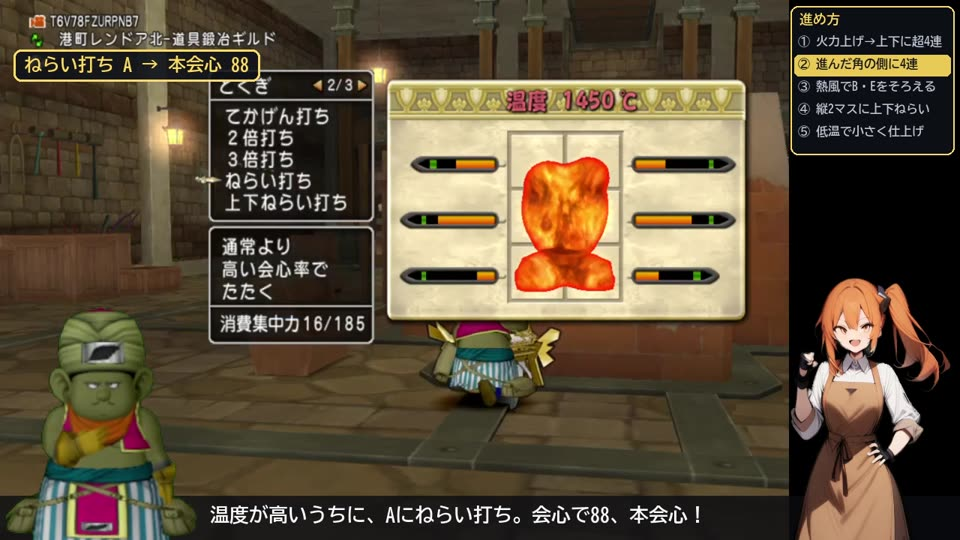
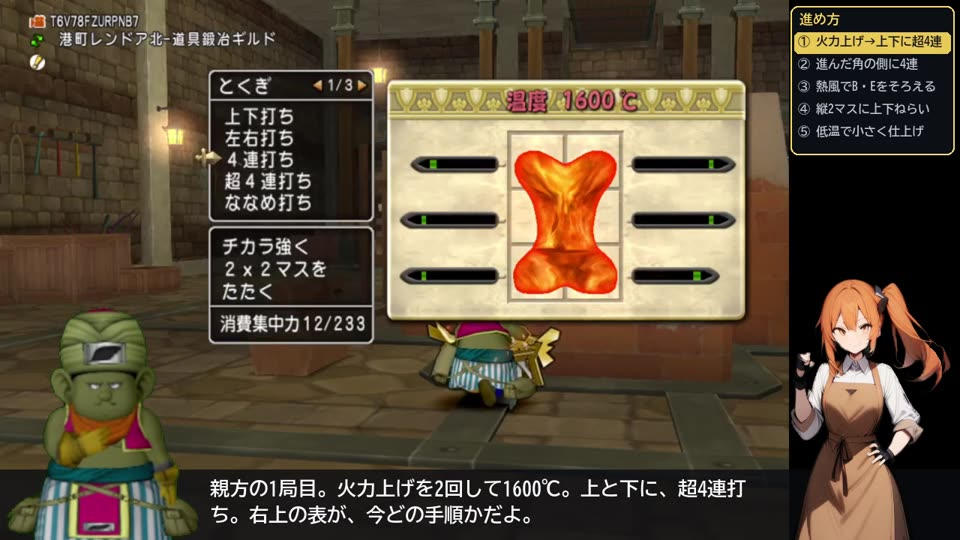
皮のてぶくろ・虹色のオーブは上げ直し版の説明欄（youtube2.md）から作る

diff --git a/item/kawa-tebukuro/index.html b/item/kawa-tebukuro/index.html
@@ -16,7 +16,7 @@
 <meta property="og:locale" content="ja_JP">
 <meta property="og:image" content="https://i.ytimg.com/vi/4nPwdXzhYQA/hqdefault.jpg">
 <meta name="twitter:card" content="summary_large_image">
-<script type="application/ld+json">[{"@context": "https://schema.org", "@type": "Article", "headline": "皮のてぶくろの縫い方とコツ｜ドラクエ10 裁縫", "description": "ドラクエ10 裁縫の「皮のてぶくろ」の縫い方とコツを、解説動画と実際の記録でまとめました。材料は店で100Gのけものの皮。針代を入れても1個5,000Gほどの皮のてぶくろ★3に、上級錬金を1回だけ回してレアドロップ率が付けば、約290万Gで売れます。", "inLanguage": "ja", "author": {"@type": "Person", "name": "らんぷー", "url": "https://www.youtube.com/@%E3%82%89%E3%82%93%E3%81%B7%E3%83%BCdqx", "sameAs": ["https://www.youtube.com/@%E3%82%89%E3%82%93%E3%81%B7%E3%83%BCdqx"]}, "image": ["https://i.ytimg.com/vi/4nPwdXzhYQA/hqdefault.jpg"], "datePublished": "2026-10-27T18:01:31Z", "mainEntityOfPage": "https://dq-tools.github.io/item/kawa-tebukuro/"}, {"@context": "https://schema.org", "@type": "VideoObject", "name": "ドラクエ10 裁縫×錬金 金策｜皮のてぶくろ 初手レアドロで290万！縫い方と錬金のコツ", "description": "ドラクエ10 裁縫（さいほう）と錬金の金策「皮のてぶくろ 初手レアドロ」を、縫い方のコツから錬金の選び方、パルプンテに入れるコツ、もうけの計算まで解説します。 材料は店で100Gのけものの皮。針代を入れても1個5,000Gほどの皮のてぶくろ★3に、上級錬金を1回だけ回してレアドロップ率が付けば、約290万Gで売れます。", "thumbnailUrl": ["https://i.ytimg.com/vi/4nPwdXzhYQA/hqdefault.jpg"], "uploadDate": "2026-10-27T18:01:31Z", "duration": "PT6M34S", "embedUrl": "https://www.youtube.com/embed/4nPwdXzhYQA", "contentUrl": "https://www.youtube.com/watch?v=4nPwdXzhYQA", "hasPart": [{"@type": "Clip", "name": "オープニング", "startOffset": 0, "endOffset": 15, "url": "https://www.youtube.com/watch?v=4nPwdXzhYQA&t=0s"}, {"@type": "Clip", "name": "皮のてぶくろ金策とは", "startOffset": 15, "endOffset": 27, "url": "https://www.youtube.com/watch?v=4nPwdXzhYQA&t=15s"}, {"@type": "Clip", "name": "皮のてぶくろの数値（6マス・すべて15・誤差3以下）", "startOffset": 27, "endOffset": 38, "url": "https://www.youtube.com/watch?v=4nPwdXzhYQA&t=27s"}, {"@type": "Clip", "name": "何も考えずにできる縫い方（実際に縫う場面つき）", "startOffset": 38, "endOffset": 99, "url": "https://www.youtube.com/watch?v=4nPwdXzhYQA&t=38s"}, {"@type": "Clip", "name": "針と原価（プラチナのさいほう針★3がおすすめ）", "startOffset": 99, "endOffset": 119, "url": "https://www.youtube.com/watch?v=4nPwdXzhYQA&t=99s"}, {"@type": "Clip", "name": "なぜ ねらいぬい？", "startOffset": 119, "endOffset": 136, "url": "https://www.youtube.com/watch?v=4nPwdXzhYQA&t=119s"}, {"@type": "Clip", "name": "★3 のまま売ると", "startOffset": 136, "endOffset": 154, "url": "https://www.youtube.com/watch?v=4nPwdXzhYQA&t=136s"}, {"@type": "Clip", "name": "1回だけ錬金して売る", "startOffset": 154, "endOffset": 169, "url": "https://www.youtube.com/watch?v=4nPwdXzhYQA&t=154s"}, {"@type": "Clip", "name": "どの錬金を使う？（眠り・呪文発動速度）", "startOffset": 169, "endOffset": 188, "url": "https://www.youtube.com/watch?v=4nPwdXzhYQA&t=169s"}, {"@type": "Clip", "name": "パルプンテに入れるコツ", "startOffset": 188, "endOffset": 248, "url": "https://www.youtube.com/watch?v=4nPwdXzhYQA&t=188s"}, {"@type": "Clip", "name": "実際に16回回してみた（レアドロ・通ドロが付いた場面つき）", "startOffset": 248, "endOffset": 277, "url": "https://www.youtube.com/watch?v=4nPwdXzhYQA&t=248s"}, {"@type": "Clip", "name": "★3は買ってもいい", "startOffset": 277, "endOffset": 290, "url": "https://www.youtube.com/watch?v=4nPwdXzhYQA&t=277s"}, {"@type": "Clip", "name": "1個あたりのもうけ", "startOffset": 290, "endOffset": 319, "url": "https://www.youtube.com/watch?v=4nPwdXzhYQA&t=290s"}, {"@type": "Clip", "name": "まとめ", "startOffset": 319, "url": "https://www.youtube.com/watch?v=4nPwdXzhYQA&t=319s"}]}, {"@context": "https://schema.org", "@type": "BreadcrumbList", "itemListElement": [{"@type": "ListItem", "position": 1, "name": "トップ", "item": "https://dq-tools.github.io/"}, {"@type": "ListItem", "position": 2, "name": "皮のてぶくろ", "item": "https://dq-tools.github.io/item/kawa-tebukuro/"}]}]</script>
+<script type="application/ld+json">[{"@context": "https://schema.org", "@type": "Article", "headline": "皮のてぶくろの縫い方とコツ｜ドラクエ10 裁縫", "description": "ドラクエ10 裁縫の「皮のてぶくろ」の縫い方とコツを、解説動画と実際の記録でまとめました。材料は店で100Gのけものの皮。針代を入れても1個5,000Gほどの皮のてぶくろ★3に、上級錬金を1回だけ回してレアドロップ率が付けば、約290万Gで売れます。", "inLanguage": "ja", "author": {"@type": "Person", "name": "らんぷー", "url": "https://www.youtube.com/@%E3%82%89%E3%82%93%E3%81%B7%E3%83%BCdqx", "sameAs": ["https://www.youtube.com/@%E3%82%89%E3%82%93%E3%81%B7%E3%83%BCdqx"]}, "image": ["https://i.ytimg.com/vi/4nPwdXzhYQA/hqdefault.jpg"], "datePublished": "2026-10-27T18:01:31Z", "mainEntityOfPage": "https://dq-tools.github.io/item/kawa-tebukuro/"}, {"@context": "https://schema.org", "@type": "VideoObject", "name": "ドラクエ10 裁縫×錬金 金策｜皮のてぶくろ 初手レアドロで290万！縫い方と錬金のコツ", "description": "ドラクエ10 裁縫（さいほう）と錬金の金策「皮のてぶくろ 初手レアドロ」を、縫い方のコツから錬金の選び方、パルプンテに入れるコツ、もうけの計算まで解説します。 材料は店で100Gのけものの皮。針代を入れても1個5,000Gほどの皮のてぶくろ★3に、上級錬金を1回だけ回してレアドロップ率が付けば、約290万Gで売れます。", "thumbnailUrl": ["https://i.ytimg.com/vi/4nPwdXzhYQA/hqdefault.jpg"], "uploadDate": "2026-10-27T18:01:31Z", "duration": "PT6M34S", "embedUrl": "https://www.youtube.com/embed/4nPwdXzhYQA", "contentUrl": "https://www.youtube.com/watch?v=4nPwdXzhYQA", "hasPart": [{"@type": "Clip", "name": "オープニング", "startOffset": 0, "endOffset": 14, "url": "https://www.youtube.com/watch?v=4nPwdXzhYQA&t=0s"}, {"@type": "Clip", "name": "実際に縫う（シフト → 会心×2 → 精神統一 → ねらいぬい）", "startOffset": 14, "endOffset": 44, "url": "https://www.youtube.com/watch?v=4nPwdXzhYQA&t=14s"}, {"@type": "Clip", "name": "皮のてぶくろの数値（6マス・すべて15・誤差3以下）", "startOffset": 44, "endOffset": 58, "url": "https://www.youtube.com/watch?v=4nPwdXzhYQA&t=44s"}, {"@type": "Clip", "name": "なぜ ねらいぬい？", "startOffset": 58, "endOffset": 85, "url": "https://www.youtube.com/watch?v=4nPwdXzhYQA&t=58s"}, {"@type": "Clip", "name": "会心×2が出なかった時", "startOffset": 85, "endOffset": 105, "url": "https://www.youtube.com/watch?v=4nPwdXzhYQA&t=85s"}, {"@type": "Clip", "name": "針と原価（プラチナのさいほう針★3がおすすめ）", "startOffset": 105, "endOffset": 130, "url": "https://www.youtube.com/watch?v=4nPwdXzhYQA&t=105s"}, {"@type": "Clip", "name": "★3 のまま売ると", "startOffset": 130, "endOffset": 154, "url": "https://www.youtube.com/watch?v=4nPwdXzhYQA&t=130s"}, {"@type": "Clip", "name": "1回だけ錬金して売る", "startOffset": 154, "endOffset": 174, "url": "https://www.youtube.com/watch?v=4nPwdXzhYQA&t=154s"}, {"@type": "Clip", "name": "どの錬金を使う？（眠り・呪文発動速度）", "startOffset": 174, "endOffset": 197, "url": "https://www.youtube.com/watch?v=4nPwdXzhYQA&t=174s"}, {"@type": "Clip", "name": "パルプンテに入れるコツ", "startOffset": 197, "endOffset": 222, "url": "https://www.youtube.com/watch?v=4nPwdXzhYQA&t=197s"}, {"@type": "Clip", "name": "通ドロ・レアドロが付いた場面", "startOffset": 222, "endOffset": 261, "url": "https://www.youtube.com/watch?v=4nPwdXzhYQA&t=222s"}, {"@type": "Clip", "name": "実際に16回回してみた", "startOffset": 261, "endOffset": 298, "url": "https://www.youtube.com/watch?v=4nPwdXzhYQA&t=261s"}, {"@type": "Clip", "name": "★3は買ってもいい", "startOffset": 298, "endOffset": 313, "url": "https://www.youtube.com/watch?v=4nPwdXzhYQA&t=298s"}, {"@type": "Clip", "name": "1個あたりのもうけ", "startOffset": 313, "endOffset": 357, "url": "https://www.youtube.com/watch?v=4nPwdXzhYQA&t=313s"}, {"@type": "Clip", "name": "まとめ", "startOffset": 357, "url": "https://www.youtube.com/watch?v=4nPwdXzhYQA&t=357s"}]}, {"@context": "https://schema.org", "@type": "BreadcrumbList", "itemListElement": [{"@type": "ListItem", "position": 1, "name": "トップ", "item": "https://dq-tools.github.io/"}, {"@type": "ListItem", "position": 2, "name": "皮のてぶくろ", "item": "https://dq-tools.github.io/item/kawa-tebukuro/"}]}]</script>
 <style>
 :root{--bg:#f4f1ea;--card:#fffdf8;--fg:#24212b;--sub:#6b6676;--line:#e3ddd0;--acc:#c2410c;--acc2:#f59e0b;--chip:#efe9dc;
   --hero1:#3b1d0e;--hero2:#7c2d12;--shadow:0 2px 10px rgba(60,40,20,.08)}
@@ -73,8 +73,8 @@ footer{max-width:880px;margin:0 auto;padding:8px 16px 32px;font-size:.78rem;colo
 <h2>解説動画: 皮のてぶくろ 初手レアドロで290万！縫い方と錬金のコツ</h2>
 <a class="yt" href="https://www.youtube.com/watch?v=4nPwdXzhYQA" data-id="4nPwdXzhYQA" title="ドラクエ10 裁縫×錬金 金策｜皮のてぶくろ 初手レアドロで290万！縫い方と錬金のコツ"><img src="https://i.ytimg.com/vi/4nPwdXzhYQA/hqdefault.jpg" alt="ドラクエ10 裁縫×錬金 金策｜皮のてぶくろ 初手レアドロで290万！縫い方と錬金のコツ" loading="lazy" width="480" height="360"><span></span></a>
 <p>材料は店で100Gのけものの皮。針代を入れても1個5,000Gほどの皮のてぶくろ★3に、上級錬金を1回だけ回してレアドロップ率が付けば、約290万Gで売れます。</p>
-<h3>目次（押すとその場面から再生）</h3><ul class="chap"><li><a href="https://www.youtube.com/watch?v=4nPwdXzhYQA&amp;t=0s" data-seek="0" data-vid="4nPwdXzhYQA">0:00</a>オープニング</li><li><a href="https://www.youtube.com/watch?v=4nPwdXzhYQA&amp;t=15s" data-seek="15" data-vid="4nPwdXzhYQA">0:15</a>皮のてぶくろ金策とは</li><li><a href="https://www.youtube.com/watch?v=4nPwdXzhYQA&amp;t=27s" data-seek="27" data-vid="4nPwdXzhYQA">0:27</a>皮のてぶくろの数値（6マス・すべて15・誤差3以下）</li><li><a href="https://www.youtube.com/watch?v=4nPwdXzhYQA&amp;t=38s" data-seek="38" data-vid="4nPwdXzhYQA">0:38</a>何も考えずにできる縫い方（実際に縫う場面つき）</li><li><a href="https://www.youtube.com/watch?v=4nPwdXzhYQA&amp;t=99s" data-seek="99" data-vid="4nPwdXzhYQA">1:39</a>針と原価（プラチナのさいほう針★3がおすすめ）</li><li><a href="https://www.youtube.com/watch?v=4nPwdXzhYQA&amp;t=119s" data-seek="119" data-vid="4nPwdXzhYQA">1:59</a>なぜ ねらいぬい？</li><li><a href="https://www.youtube.com/watch?v=4nPwdXzhYQA&amp;t=136s" data-seek="136" data-vid="4nPwdXzhYQA">2:16</a>★3 のまま売ると</li><li><a href="https://www.youtube.com/watch?v=4nPwdXzhYQA&amp;t=154s" data-seek="154" data-vid="4nPwdXzhYQA">2:34</a>1回だけ錬金して売る</li><li><a href="https://www.youtube.com/watch?v=4nPwdXzhYQA&amp;t=169s" data-seek="169" data-vid="4nPwdXzhYQA">2:49</a>どの錬金を使う？（眠り・呪文発動速度）</li><li><a href="https://www.youtube.com/watch?v=4nPwdXzhYQA&amp;t=188s" data-seek="188" data-vid="4nPwdXzhYQA">3:08</a>パルプンテに入れるコツ</li><li><a href="https://www.youtube.com/watch?v=4nPwdXzhYQA&amp;t=248s" data-seek="248" data-vid="4nPwdXzhYQA">4:08</a>実際に16回回してみた（レアドロ・通ドロが付いた場面つき）</li><li><a href="https://www.youtube.com/watch?v=4nPwdXzhYQA&amp;t=277s" data-seek="277" data-vid="4nPwdXzhYQA">4:37</a>★3は買ってもいい</li><li><a href="https://www.youtube.com/watch?v=4nPwdXzhYQA&amp;t=290s" data-seek="290" data-vid="4nPwdXzhYQA">4:50</a>1個あたりのもうけ</li><li><a href="https://www.youtube.com/watch?v=4nPwdXzhYQA&amp;t=319s" data-seek="319" data-vid="4nPwdXzhYQA">5:19</a>まとめ</li></ul>
-<h3>ポイント</h3><div class="pts"><div class="pt"><b>縫い方</b><p>ぬいパワーシフトで会心×2 → 精神統一で固定 → ねらいぬいで1マスずつ15ぴったり（プラチナのさいほう針★3で★3 約7割）</p></div><div class="pt"><b>針</b><p>プラチナのさいほう針★3（約10万G・30回）がおすすめ。</p><p>光や奇跡の針の★1・★2が安く買えればそちらも。</p><p>原価は★3 1個あたり約4,700G</p></div><div class="pt"><b>錬金</b><p>素材がいちばん安いのは「攻撃時4%で眠り」。</p><p>店でまとめて買うなら「呪文発動速度+6%」。</p><p>汗と涙の結晶×10だけバザー</p></div><div class="pt"><b>ランプ</b><p>まおうの錬金ランプ★2（約15万G・30回）で1回5,000G</p></div><div class="pt"><b>実際に16回</b><p>レアドロ1・通ドロ1・うめつくし4（2万Gで出品）→ 錬金の費用を引いて約+240万G</p></div><div class="pt"><b>もうけ</b><p>★3のまま約2.4万G、1回錬金して売ると約5〜11万G（レアドロは30回で1〜1.5個くらい、運しだい）</p></div></div>
+<h3>目次（押すとその場面から再生）</h3><ul class="chap"><li><a href="https://www.youtube.com/watch?v=4nPwdXzhYQA&amp;t=0s" data-seek="0" data-vid="4nPwdXzhYQA">0:00</a>オープニング</li><li><a href="https://www.youtube.com/watch?v=4nPwdXzhYQA&amp;t=14s" data-seek="14" data-vid="4nPwdXzhYQA">0:14</a>実際に縫う（シフト → 会心×2 → 精神統一 → ねらいぬい）</li><li><a href="https://www.youtube.com/watch?v=4nPwdXzhYQA&amp;t=44s" data-seek="44" data-vid="4nPwdXzhYQA">0:44</a>皮のてぶくろの数値（6マス・すべて15・誤差3以下）</li><li><a href="https://www.youtube.com/watch?v=4nPwdXzhYQA&amp;t=58s" data-seek="58" data-vid="4nPwdXzhYQA">0:58</a>なぜ ねらいぬい？</li><li><a href="https://www.youtube.com/watch?v=4nPwdXzhYQA&amp;t=85s" data-seek="85" data-vid="4nPwdXzhYQA">1:25</a>会心×2が出なかった時</li><li><a href="https://www.youtube.com/watch?v=4nPwdXzhYQA&amp;t=105s" data-seek="105" data-vid="4nPwdXzhYQA">1:45</a>針と原価（プラチナのさいほう針★3がおすすめ）</li><li><a href="https://www.youtube.com/watch?v=4nPwdXzhYQA&amp;t=130s" data-seek="130" data-vid="4nPwdXzhYQA">2:10</a>★3 のまま売ると</li><li><a href="https://www.youtube.com/watch?v=4nPwdXzhYQA&amp;t=154s" data-seek="154" data-vid="4nPwdXzhYQA">2:34</a>1回だけ錬金して売る</li><li><a href="https://www.youtube.com/watch?v=4nPwdXzhYQA&amp;t=174s" data-seek="174" data-vid="4nPwdXzhYQA">2:54</a>どの錬金を使う？（眠り・呪文発動速度）</li><li><a href="https://www.youtube.com/watch?v=4nPwdXzhYQA&amp;t=197s" data-seek="197" data-vid="4nPwdXzhYQA">3:17</a>パルプンテに入れるコツ</li><li><a href="https://www.youtube.com/watch?v=4nPwdXzhYQA&amp;t=222s" data-seek="222" data-vid="4nPwdXzhYQA">3:42</a>通ドロ・レアドロが付いた場面</li><li><a href="https://www.youtube.com/watch?v=4nPwdXzhYQA&amp;t=261s" data-seek="261" data-vid="4nPwdXzhYQA">4:21</a>実際に16回回してみた</li><li><a href="https://www.youtube.com/watch?v=4nPwdXzhYQA&amp;t=298s" data-seek="298" data-vid="4nPwdXzhYQA">4:58</a>★3は買ってもいい</li><li><a href="https://www.youtube.com/watch?v=4nPwdXzhYQA&amp;t=313s" data-seek="313" data-vid="4nPwdXzhYQA">5:13</a>1個あたりのもうけ</li><li><a href="https://www.youtube.com/watch?v=4nPwdXzhYQA&amp;t=357s" data-seek="357" data-vid="4nPwdXzhYQA">5:57</a>まとめ</li></ul>
+<h3>ポイント</h3><div class="pts"><div class="pt"><b>縫い方</b><p>ぬいパワーシフトで会心×2 → 精神統一で固定 → ねらいぬいで1マスずつ15ぴったり（プラチナのさいほう針★3で★3 約7割）</p></div><div class="pt"><b>針</b><p>プラチナのさいほう針★3（約10万G・30回）がおすすめ。</p><p>光や奇跡の針の★1・★2が安く買えればそちらも。</p><p>原価は★3 1個あたり約4,700G</p></div><div class="pt"><b>錬金</b><p>素材がいちばん安いのは「攻撃時4%で眠り」。</p><p>店でまとめて買うなら「呪文発動速度+6%」。</p><p>汗と涙の結晶×10だけバザー</p></div><div class="pt"><b>ランプ</b><p>まおうの錬金ランプ★2（約15万G・30回）で1回5,000G</p></div><div class="pt"><b>実際に16回</b><p>レアドロ1・通ドロ1・うめつくし4（2万Gで出品）→ 錬金の費用を引いて約+240万G</p></div><div class="pt"><b>もうけ</b><p>★3のまま約2.4万G、1回錬金して売ると約5〜11万G（レアドロは30回で1〜1.5個くらい、運しだい）</p></div><div class="pt"><b>1時間の目安</b><p>縫う約1分＋錬金約1分半で1時間に約20個 → 平均で約100〜200万G（ユニクロさんの録画の時間から計算）</p></div></div>
 <h3>相場（2026年10月24日）</h3><p>★3＋レアドロ 約290万G、★3＋通ドロ 約27万G、★3 錬金なし 約2.5万G。素材はバザーの記録の値。</p>
 </section>
 <section class="card"><h2>あわせて読む</h2><ul><li><a href="https://dq-tools.github.io/saihou-kotsu/">裁縫のコツ まとめ（基本と地金・布ごとの縫い方）</a></li><li><a href="https://dq-tools.github.io/saihou/">裁縫の数値表</a>（出る数字の早見表）</li><li><a href="https://dq-tools.github.io/kinsaku/">職人の金策（商材ごとのもうけ）</a></li><li><a href="https://dq-tools.github.io/level/">職人レベル上げ</a></li></ul><h3>ほかの裁縫の商材</h3><div class="grid">

diff --git a/item/niji-orb/index.html b/item/niji-orb/index.html
@@ -16,7 +16,7 @@
 <meta property="og:locale" content="ja_JP">
 <meta property="og:image" content="https://dq-tools.github.io/img/dcOh1AFNTUw.jpg">
 <meta name="twitter:card" content="summary_large_image">
-<script type="application/ld+json">[{"@context": "https://schema.org", "@type": "Article", "headline": "虹色のオーブの打ち方とコツ｜ドラクエ10 道具鍛冶", "description": "ドラクエ10 道具鍛冶の「虹色のオーブ」の打ち方とコツを、解説動画と実際の記録でまとめました。", "inLanguage": "ja", "author": {"@type": "Person", "name": "らんぷー", "url": "https://www.youtube.com/@%E3%82%89%E3%82%93%E3%81%B7%E3%83%BCdqx", "sameAs": ["https://www.youtube.com/@%E3%82%89%E3%82%93%E3%81%B7%E3%83%BCdqx"]}, "image": ["https://i.ytimg.com/vi/dcOh1AFNTUw/hqdefault.jpg"], "datePublished": "2026-10-27T10:16:08Z", "mainEntityOfPage": "https://dq-tools.github.io/item/niji-orb/"}, {"@context": "https://schema.org", "@type": "VideoObject", "name": "虹色のオーブの打ち方｜狙い距離を作れ！何を考えて打つか【ドラクエ10 道具鍛冶 金策 解説】", "description": "ドラクエ10 道具鍛冶の定番金策「虹色のオーブ」の打ち方とコツを、何を考えて打つのかに絞って解説。親方クマタローの実際の局を見ながら、鍛冶見習いのヒバナが説明します。", "thumbnailUrl": ["https://i.ytimg.com/vi/dcOh1AFNTUw/hqdefault.jpg"], "uploadDate": "2026-10-27T10:16:08Z", "duration": "PT7M45S", "embedUrl": "https://www.youtube.com/embed/dcOh1AFNTUw", "contentUrl": "https://www.youtube.com/watch?v=dcOh1AFNTUw", "hasPart": [{"@type": "Clip", "name": "オープニング", "startOffset": 0, "endOffset": 24, "url": "https://www.youtube.com/watch?v=dcOh1AFNTUw&t=0s"}, {"@type": "Clip", "name": "虹色のオーブってどんな商材？（6マス・再生）", "startOffset": 24, "endOffset": 40, "url": "https://www.youtube.com/watch?v=dcOh1AFNTUw&t=24s"}, {"@type": "Clip", "name": "地金の特性「再生」", "startOffset": 40, "endOffset": 53, "url": "https://www.youtube.com/watch?v=dcOh1AFNTUw&t=40s"}, {"@type": "Clip", "name": "いちばん大事な考え方「狙い距離」", "startOffset": 53, "endOffset": 85, "url": "https://www.youtube.com/watch?v=dcOh1AFNTUw&t=53s"}, {"@type": "Clip", "name": "狙い距離の目安（温度ごと）", "startOffset": 85, "endOffset": 100, "url": "https://www.youtube.com/watch?v=dcOh1AFNTUw&t=85s"}, {"@type": "Clip", "name": "どのマスから狙う？（幅の広い A・F）", "startOffset": 100, "endOffset": 121, "url": "https://www.youtube.com/watch?v=dcOh1AFNTUw&t=100s"}, {"@type": "Clip", "name": "進め方の流れ", "startOffset": 121, "endOffset": 128, "url": "https://www.youtube.com/watch?v=dcOh1AFNTUw&t=121s"}, {"@type": "Clip", "name": "開幕：火力上げ 2 回 → 上と下に超4連打ち", "startOffset": 128, "endOffset": 150, "url": "https://www.youtube.com/watch?v=dcOh1AFNTUw&t=128s"}, {"@type": "Clip", "name": "1500℃：進んでいる角の側に 4連打ち", "startOffset": 150, "endOffset": 172, "url": "https://www.youtube.com/watch?v=dcOh1AFNTUw&t=150s"}, {"@type": "Clip", "name": "熱風おろしで B・E を相棒にそろえる", "startOffset": 172, "endOffset": 204, "url": "https://www.youtube.com/watch?v=dcOh1AFNTUw&t=172s"}, {"@type": "Clip", "name": "縦の 2 マスに上下ねらい打ち", "startOffset": 204, "endOffset": 240, "url": "https://www.youtube.com/watch?v=dcOh1AFNTUw&t=204s"}, {"@type": "Clip", "name": "再生とのつきあい方（突き抜けても、戻ればもう一度狙える）", "startOffset": 240, "endOffset": 303, "url": "https://www.youtube.com/watch?v=dcOh1AFNTUw&t=240s"}, {"@type": "Clip", "name": "必殺が来たら（四隅が本会心なら反対側の 4 マス）", "startOffset": 303, "endOffset": 322, "url": "https://www.youtube.com/watch?v=dcOh1AFNTUw&t=303s"}, {"@type": "Clip", "name": "C・E は 118 に入れる", "startOffset": 322, "endOffset": 390, "url": "https://www.youtube.com/watch?v=dcOh1AFNTUw&t=322s"}, {"@type": "Clip", "name": "会心のチャンスは何回作る？", "startOffset": 390, "endOffset": 431, "url": "https://www.youtube.com/watch?v=dcOh1AFNTUw&t=390s"}, {"@type": "Clip", "name": "まとめ", "startOffset": 431, "url": "https://www.youtube.com/watch?v=dcOh1AFNTUw&t=431s"}]}, {"@context": "https://schema.org", "@type": "BreadcrumbList", "itemListElement": [{"@type": "ListItem", "position": 1, "name": "トップ", "item": "https://dq-tools.github.io/"}, {"@type": "ListItem", "position": 2, "name": "虹色のオーブ", "item": "https://dq-tools.github.io/item/niji-orb/"}]}]</script>
+<script type="application/ld+json">[{"@context": "https://schema.org", "@type": "Article", "headline": "虹色のオーブの打ち方とコツ｜ドラクエ10 道具鍛冶", "description": "ドラクエ10 道具鍛冶の「虹色のオーブ」の打ち方とコツを、解説動画と実際の記録でまとめました。", "inLanguage": "ja", "author": {"@type": "Person", "name": "らんぷー", "url": "https://www.youtube.com/@%E3%82%89%E3%82%93%E3%81%B7%E3%83%BCdqx", "sameAs": ["https://www.youtube.com/@%E3%82%89%E3%82%93%E3%81%B7%E3%83%BCdqx"]}, "image": ["https://i.ytimg.com/vi/dcOh1AFNTUw/hqdefault.jpg"], "datePublished": "2026-10-27T10:16:08Z", "mainEntityOfPage": "https://dq-tools.github.io/item/niji-orb/"}, {"@context": "https://schema.org", "@type": "VideoObject", "name": "虹色のオーブの打ち方｜狙い距離を作れ！何を考えて打つか【ドラクエ10 道具鍛冶 金策 解説】", "description": "ドラクエ10 道具鍛冶の定番金策「虹色のオーブ」の打ち方とコツを、何を考えて打つのかに絞って解説。親方クマタローの実際の局を見ながら、鍛冶見習いのヒバナが説明します。", "thumbnailUrl": ["https://i.ytimg.com/vi/dcOh1AFNTUw/hqdefault.jpg"], "uploadDate": "2026-10-27T10:16:08Z", "duration": "PT7M45S", "embedUrl": "https://www.youtube.com/embed/dcOh1AFNTUw", "contentUrl": "https://www.youtube.com/watch?v=dcOh1AFNTUw", "hasPart": [{"@type": "Clip", "name": "虹色のオーブってどんな商材？", "startOffset": 0, "endOffset": 15, "url": "https://www.youtube.com/watch?v=dcOh1AFNTUw&t=0s"}, {"@type": "Clip", "name": "開幕：火力上げ 2 回 → 上と下に超4連打ち", "startOffset": 15, "endOffset": 45, "url": "https://www.youtube.com/watch?v=dcOh1AFNTUw&t=15s"}, {"@type": "Clip", "name": "進んでいる角の側に 4連打ち", "startOffset": 45, "endOffset": 49, "url": "https://www.youtube.com/watch?v=dcOh1AFNTUw&t=45s"}, {"@type": "Clip", "name": "いちばん大事な考え方「狙い距離」", "startOffset": 49, "endOffset": 97, "url": "https://www.youtube.com/watch?v=dcOh1AFNTUw&t=49s"}, {"@type": "Clip", "name": "狙い距離の目安（温度ごと）", "startOffset": 97, "endOffset": 114, "url": "https://www.youtube.com/watch?v=dcOh1AFNTUw&t=97s"}, {"@type": "Clip", "name": "A にねらい打ち → 本会心", "startOffset": 114, "endOffset": 122, "url": "https://www.youtube.com/watch?v=dcOh1AFNTUw&t=114s"}, {"@type": "Clip", "name": "幅の広い A・F を会心で決める理由", "startOffset": 122, "endOffset": 134, "url": "https://www.youtube.com/watch?v=dcOh1AFNTUw&t=122s"}, {"@type": "Clip", "name": "地金の特性「再生」（1400℃ で C が戻る）", "startOffset": 134, "endOffset": 157, "url": "https://www.youtube.com/watch?v=dcOh1AFNTUw&t=134s"}, {"@type": "Clip", "name": "熱風おろしで B・E を相棒にそろえる", "startOffset": 157, "endOffset": 195, "url": "https://www.youtube.com/watch?v=dcOh1AFNTUw&t=157s"}, {"@type": "Clip", "name": "縦の 2 マスに上下ねらい打ち", "startOffset": 195, "endOffset": 234, "url": "https://www.youtube.com/watch?v=dcOh1AFNTUw&t=195s"}, {"@type": "Clip", "name": "突き抜けても、再生で戻ればもう一度狙える", "startOffset": 234, "endOffset": 295, "url": "https://www.youtube.com/watch?v=dcOh1AFNTUw&t=234s"}, {"@type": "Clip", "name": "必殺の使い方（本会心の角の反対側の 4 マス）", "startOffset": 295, "endOffset": 339, "url": "https://www.youtube.com/watch?v=dcOh1AFNTUw&t=295s"}, {"@type": "Clip", "name": "仕上げ：F を範囲に入れる", "startOffset": 339, "endOffset": 361, "url": "https://www.youtube.com/watch?v=dcOh1AFNTUw&t=339s"}, {"@type": "Clip", "name": "C・E は 118 に入れる", "startOffset": 361, "endOffset": 379, "url": "https://www.youtube.com/watch?v=dcOh1AFNTUw&t=361s"}, {"@type": "Clip", "name": "会心のチャンスは何回作る？", "startOffset": 379, "endOffset": 428, "url": "https://www.youtube.com/watch?v=dcOh1AFNTUw&t=379s"}, {"@type": "Clip", "name": "まとめ", "startOffset": 428, "url": "https://www.youtube.com/watch?v=dcOh1AFNTUw&t=428s"}]}, {"@context": "https://schema.org", "@type": "BreadcrumbList", "itemListElement": [{"@type": "ListItem", "position": 1, "name": "トップ", "item": "https://dq-tools.github.io/"}, {"@type": "ListItem", "position": 2, "name": "虹色のオーブ", "item": "https://dq-tools.github.io/item/niji-orb/"}]}]</script>
 <style>
 :root{--bg:#f4f1ea;--card:#fffdf8;--fg:#24212b;--sub:#6b6676;--line:#e3ddd0;--acc:#c2410c;--acc2:#f59e0b;--chip:#efe9dc;
   --hero1:#3b1d0e;--hero2:#7c2d12;--shadow:0 2px 10px rgba(60,40,20,.08)}
@@ -72,7 +72,7 @@ footer{max-width:880px;margin:0 auto;padding:8px 16px 32px;font-size:.78rem;colo
 <section class="card">
 <h2>解説動画: 狙い距離を作れ！何を考えて打つか</h2>
 <a class="yt" href="https://www.youtube.com/watch?v=dcOh1AFNTUw" data-id="dcOh1AFNTUw" title="虹色のオーブの打ち方｜狙い距離を作れ！何を考えて打つか【ドラクエ10 道具鍛冶 金策 解説】"><img src="https://i.ytimg.com/vi/dcOh1AFNTUw/hqdefault.jpg" alt="虹色のオーブの打ち方｜狙い距離を作れ！何を考えて打つか【ドラクエ10 道具鍛冶 金策 解説】" loading="lazy" width="480" height="360"><span></span></a>
-<h3>目次（押すとその場面から再生）</h3><ul class="chap"><li><a href="https://www.youtube.com/watch?v=dcOh1AFNTUw&amp;t=0s" data-seek="0" data-vid="dcOh1AFNTUw">0:00</a>オープニング</li><li><a href="https://www.youtube.com/watch?v=dcOh1AFNTUw&amp;t=24s" data-seek="24" data-vid="dcOh1AFNTUw">0:24</a>虹色のオーブってどんな商材？（6マス・再生）</li><li><a href="https://www.youtube.com/watch?v=dcOh1AFNTUw&amp;t=40s" data-seek="40" data-vid="dcOh1AFNTUw">0:40</a>地金の特性「再生」</li><li><a href="https://www.youtube.com/watch?v=dcOh1AFNTUw&amp;t=53s" data-seek="53" data-vid="dcOh1AFNTUw">0:53</a>いちばん大事な考え方「狙い距離」</li><li><a href="https://www.youtube.com/watch?v=dcOh1AFNTUw&amp;t=85s" data-seek="85" data-vid="dcOh1AFNTUw">1:25</a>狙い距離の目安（温度ごと）</li><li><a href="https://www.youtube.com/watch?v=dcOh1AFNTUw&amp;t=100s" data-seek="100" data-vid="dcOh1AFNTUw">1:40</a>どのマスから狙う？（幅の広い A・F）</li><li><a href="https://www.youtube.com/watch?v=dcOh1AFNTUw&amp;t=121s" data-seek="121" data-vid="dcOh1AFNTUw">2:01</a>進め方の流れ</li><li><a href="https://www.youtube.com/watch?v=dcOh1AFNTUw&amp;t=128s" data-seek="128" data-vid="dcOh1AFNTUw">2:08</a>開幕：火力上げ 2 回 → 上と下に超4連打ち</li><li><a href="https://www.youtube.com/watch?v=dcOh1AFNTUw&amp;t=150s" data-seek="150" data-vid="dcOh1AFNTUw">2:30</a>1500℃：進んでいる角の側に 4連打ち</li><li><a href="https://www.youtube.com/watch?v=dcOh1AFNTUw&amp;t=172s" data-seek="172" data-vid="dcOh1AFNTUw">2:52</a>熱風おろしで B・E を相棒にそろえる</li><li><a href="https://www.youtube.com/watch?v=dcOh1AFNTUw&amp;t=204s" data-seek="204" data-vid="dcOh1AFNTUw">3:24</a>縦の 2 マスに上下ねらい打ち</li><li><a href="https://www.youtube.com/watch?v=dcOh1AFNTUw&amp;t=240s" data-seek="240" data-vid="dcOh1AFNTUw">4:00</a>再生とのつきあい方（突き抜けても、戻ればもう一度狙える）</li><li><a href="https://www.youtube.com/watch?v=dcOh1AFNTUw&amp;t=303s" data-seek="303" data-vid="dcOh1AFNTUw">5:03</a>必殺が来たら（四隅が本会心なら反対側の 4 マス）</li><li><a href="https://www.youtube.com/watch?v=dcOh1AFNTUw&amp;t=322s" data-seek="322" data-vid="dcOh1AFNTUw">5:22</a>C・E は 118 に入れる</li><li><a href="https://www.youtube.com/watch?v=dcOh1AFNTUw&amp;t=390s" data-seek="390" data-vid="dcOh1AFNTUw">6:30</a>会心のチャンスは何回作る？</li><li><a href="https://www.youtube.com/watch?v=dcOh1AFNTUw&amp;t=431s" data-seek="431" data-vid="dcOh1AFNTUw">7:11</a>まとめ</li></ul>
+<h3>目次（押すとその場面から再生）</h3><ul class="chap"><li><a href="https://www.youtube.com/watch?v=dcOh1AFNTUw&amp;t=0s" data-seek="0" data-vid="dcOh1AFNTUw">0:00</a>虹色のオーブってどんな商材？</li><li><a href="https://www.youtube.com/watch?v=dcOh1AFNTUw&amp;t=15s" data-seek="15" data-vid="dcOh1AFNTUw">0:15</a>開幕：火力上げ 2 回 → 上と下に超4連打ち</li><li><a href="https://www.youtube.com/watch?v=dcOh1AFNTUw&amp;t=45s" data-seek="45" data-vid="dcOh1AFNTUw">0:45</a>進んでいる角の側に 4連打ち</li><li><a href="https://www.youtube.com/watch?v=dcOh1AFNTUw&amp;t=49s" data-seek="49" data-vid="dcOh1AFNTUw">0:49</a>いちばん大事な考え方「狙い距離」</li><li><a href="https://www.youtube.com/watch?v=dcOh1AFNTUw&amp;t=97s" data-seek="97" data-vid="dcOh1AFNTUw">1:37</a>狙い距離の目安（温度ごと）</li><li><a href="https://www.youtube.com/watch?v=dcOh1AFNTUw&amp;t=114s" data-seek="114" data-vid="dcOh1AFNTUw">1:54</a>A にねらい打ち → 本会心</li><li><a href="https://www.youtube.com/watch?v=dcOh1AFNTUw&amp;t=122s" data-seek="122" data-vid="dcOh1AFNTUw">2:02</a>幅の広い A・F を会心で決める理由</li><li><a href="https://www.youtube.com/watch?v=dcOh1AFNTUw&amp;t=134s" data-seek="134" data-vid="dcOh1AFNTUw">2:14</a>地金の特性「再生」（1400℃ で C が戻る）</li><li><a href="https://www.youtube.com/watch?v=dcOh1AFNTUw&amp;t=157s" data-seek="157" data-vid="dcOh1AFNTUw">2:37</a>熱風おろしで B・E を相棒にそろえる</li><li><a href="https://www.youtube.com/watch?v=dcOh1AFNTUw&amp;t=195s" data-seek="195" data-vid="dcOh1AFNTUw">3:15</a>縦の 2 マスに上下ねらい打ち</li><li><a href="https://www.youtube.com/watch?v=dcOh1AFNTUw&amp;t=234s" data-seek="234" data-vid="dcOh1AFNTUw">3:54</a>突き抜けても、再生で戻ればもう一度狙える</li><li><a href="https://www.youtube.com/watch?v=dcOh1AFNTUw&amp;t=295s" data-seek="295" data-vid="dcOh1AFNTUw">4:55</a>必殺の使い方（本会心の角の反対側の 4 マス）</li><li><a href="https://www.youtube.com/watch?v=dcOh1AFNTUw&amp;t=339s" data-seek="339" data-vid="dcOh1AFNTUw">5:39</a>仕上げ：F を範囲に入れる</li><li><a href="https://www.youtube.com/watch?v=dcOh1AFNTUw&amp;t=361s" data-seek="361" data-vid="dcOh1AFNTUw">6:01</a>C・E は 118 に入れる</li><li><a href="https://www.youtube.com/watch?v=dcOh1AFNTUw&amp;t=379s" data-seek="379" data-vid="dcOh1AFNTUw">6:19</a>会心のチャンスは何回作る？</li><li><a href="https://www.youtube.com/watch?v=dcOh1AFNTUw&amp;t=428s" data-seek="428" data-vid="dcOh1AFNTUw">7:08</a>まとめ</li></ul>
 <img class="shot" src="https://dq-tools.github.io/img/dcOh1AFNTUw.jpg" alt="虹色のオーブの打ち方｜狙い距離を作れ！何を考えて打つか【ドラクエ10 道具鍛冶 金策 解説】 のプレイ画面" loading="lazy" width="960" height="540"><p class="cap">ドラクエ10 のプレイ画面（解説動画より）</p>
 <h3>打ち方のポイント</h3><div class="pts"><div class="pt"><b>狙い距離</b><p>会心が出なければ範囲の手前で止まり、会心が出れば理想値でぴったり止まる距離。</p><p>ここからねらい系を打つ</p></div><div class="pt"><b>範囲に入れるのは慎重に</b><p>会心なしで安易に範囲に入れない（入れたマスはもう本会心にならない）</p></div><div class="pt"><b>A・F を会心で決める</b><p>幅の広い A・F（85〜95）を会心で決める価値が大きい</p></div><div class="pt"><b>開幕の型</b><p>開幕は火力上げ 2 回 → 上と下に超4連打ち。</p><p>1500℃で、A と F の進んでいる方の側に 4連打ち</p></div><div class="pt"><b>縦の 2 マスをそろえる</b><p>熱風おろしで遅れた B・E を相棒（D・C）にそろえ、縦の 2 マスを上下ねらい打ちで同時に狙う</p></div><div class="pt"><b>突き抜けても再生で戻る</b><p>突き抜けても、再生で戻ればもう一度狙える</p></div><div class="pt"><b>本会心 5 つで確定</b><p>6 マスは本会心 5 つで大成功が確定。</p><p>四隅のどこかが本会心なら、その反対側の 4 マスに必殺</p></div><div class="pt"><b>C・E は入れるだけ</b><p>ほかで本会心が 4 つあれば、C・E は 118 に入れるだけで大成功が確定</p></div><div class="pt"><b>親方の記録</b><p>親方の 32 局では、本会心 4 つ以上は 20 局すべて大成功。</p><p>会心のチャンスは 1 局に 9 回くらいが目安</p></div></div>
 </section>
